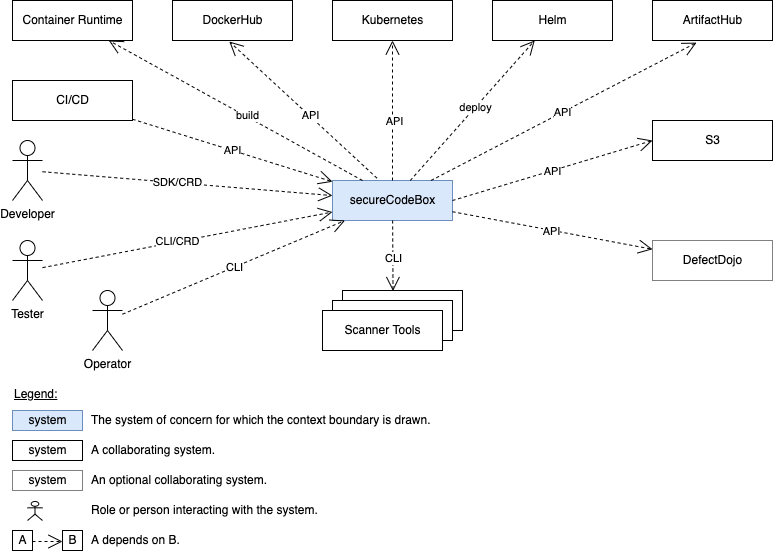
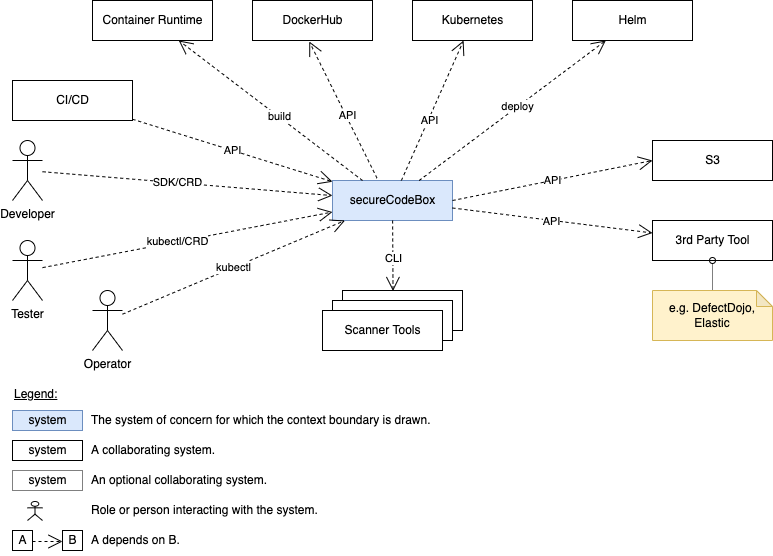
Refine context boundary diagram
- ArtifactHub removed bc it's only a doc scraper from our chart repo.
- Rename DefectDojo to 3rd party tool bc various tools may be conected.
- Rename CLI to kubectl which is more precise.

diff --git a/docs/architecture/03_system_scope_and_context.md b/docs/architecture/03_system_scope_and_context.md
@@ -23,18 +23,17 @@ The following diagram shows the_secureCodeBox_ as blackbox system and all other 
 
 The following table describes the systems _secureCodeBox_ interacts with. The description is deliberately brief. The details of the used APIs are documented in the [building block view](/docs/architecture/building_block_view).
 
-| System              | Description                                                                                                                  |
-|:--------------------|:-----------------------------------------------------------------------------------------------------------------------------|
-| _secureCodeBox_     | This is the main system we discuss in this documentation.                                                                    |
-| _Container Runtime_ | _secureCodeBox_ depends on a container runtime (e.g. [Docker][docker], [Podman][podman] etc.) to build the container images. |
-| _DockerHub_         | _secureCodeBox_ depends on the public services from [DockerHub][docker-hub] to push/pull container images.                   |
-| _Kubernetes_        | [Kubernetes][k8s] is the main foundation of the _secureCodeBox_. We heavily rely on the API and _Custom Resources_.          |
-| _Helm_              | _secureCodeBox_ uses [Helm][helm] to build, publish and install the containers via _charts_ in [Kubernetes][k8s].            |
-| _ArtifactHub_       | _secureCodeBox_ depends on the public services from [ArtifactHub][artifact-hub] to publish Helm _charts_.                    |
-| _S3_                | _secureCodeBox_ depends on an [S3 API][s3-api] compliant backend to store its persistent data.                               |
-| _DefectDojo_        | (**optional**) _secureCodeBox_ can import findings into the [DefectDojo][defectdojo] vulnerability management system.        |
-| _Scanner Tools_     | _secureCodeBox_ depends on [various security scanner](/docs/scanners) tools.                                                 |
-| _CI/CD_             | _Continuous Integration_ (CI) and _Continuous Deployment_ (CD) systems which may initialize a scan.                          | 
+| System              | Description                                                                                                                           |
+|:--------------------|:--------------------------------------------------------------------------------------------------------------------------------------|
+| _secureCodeBox_     | This is the main system we discuss in this documentation.                                                                             |
+| _Container Runtime_ | _secureCodeBox_ depends on a container runtime (e.g. [Docker][docker], [Podman][podman] etc.) to build the container images.          |
+| _DockerHub_         | _secureCodeBox_ depends on the public services from [DockerHub][docker-hub] to push/pull container images.                            |
+| _Kubernetes_        | [Kubernetes][k8s] is the main foundation of the _secureCodeBox_. We heavily rely on the API and _Custom Resources_.                   |
+| _Helm_              | _secureCodeBox_ uses [Helm][helm] to build, publish and install the containers via _charts_ in [Kubernetes][k8s].                     |
+| _S3_                | _secureCodeBox_ depends on an [S3 API][s3-api] compliant backend to store its persistent data.                                        |
+| _3rd Party Tool_    | (**optional**) _secureCodeBox_ can import findings into other tools.                                                                  |
+| _Scanner Tools_     | _secureCodeBox_ depends on [various security scanner](/docs/scanners) tools.                                                          |
+| _CI/CD_             | _Continuous Integration_ (CI) and _Continuous Deployment_ (CD) systems which may initialize a scan.                                   | 
 
 ### Roles
 
@@ -47,7 +46,6 @@ The following table describes the roles interacting with _secureCodeBox_.
 | Developer | The role which develops the _secureCodeBox_.                                                                                                        |
 
 [artifact-hub]: https://artifacthub.io/docs/
-[defectdojo]:   https://www.defectdojo.org/
 [docker]:       https://www.docker.com/
 [docker-hub]:   https://hub.docker.com/
 [helm]:         https://helm.sh/
